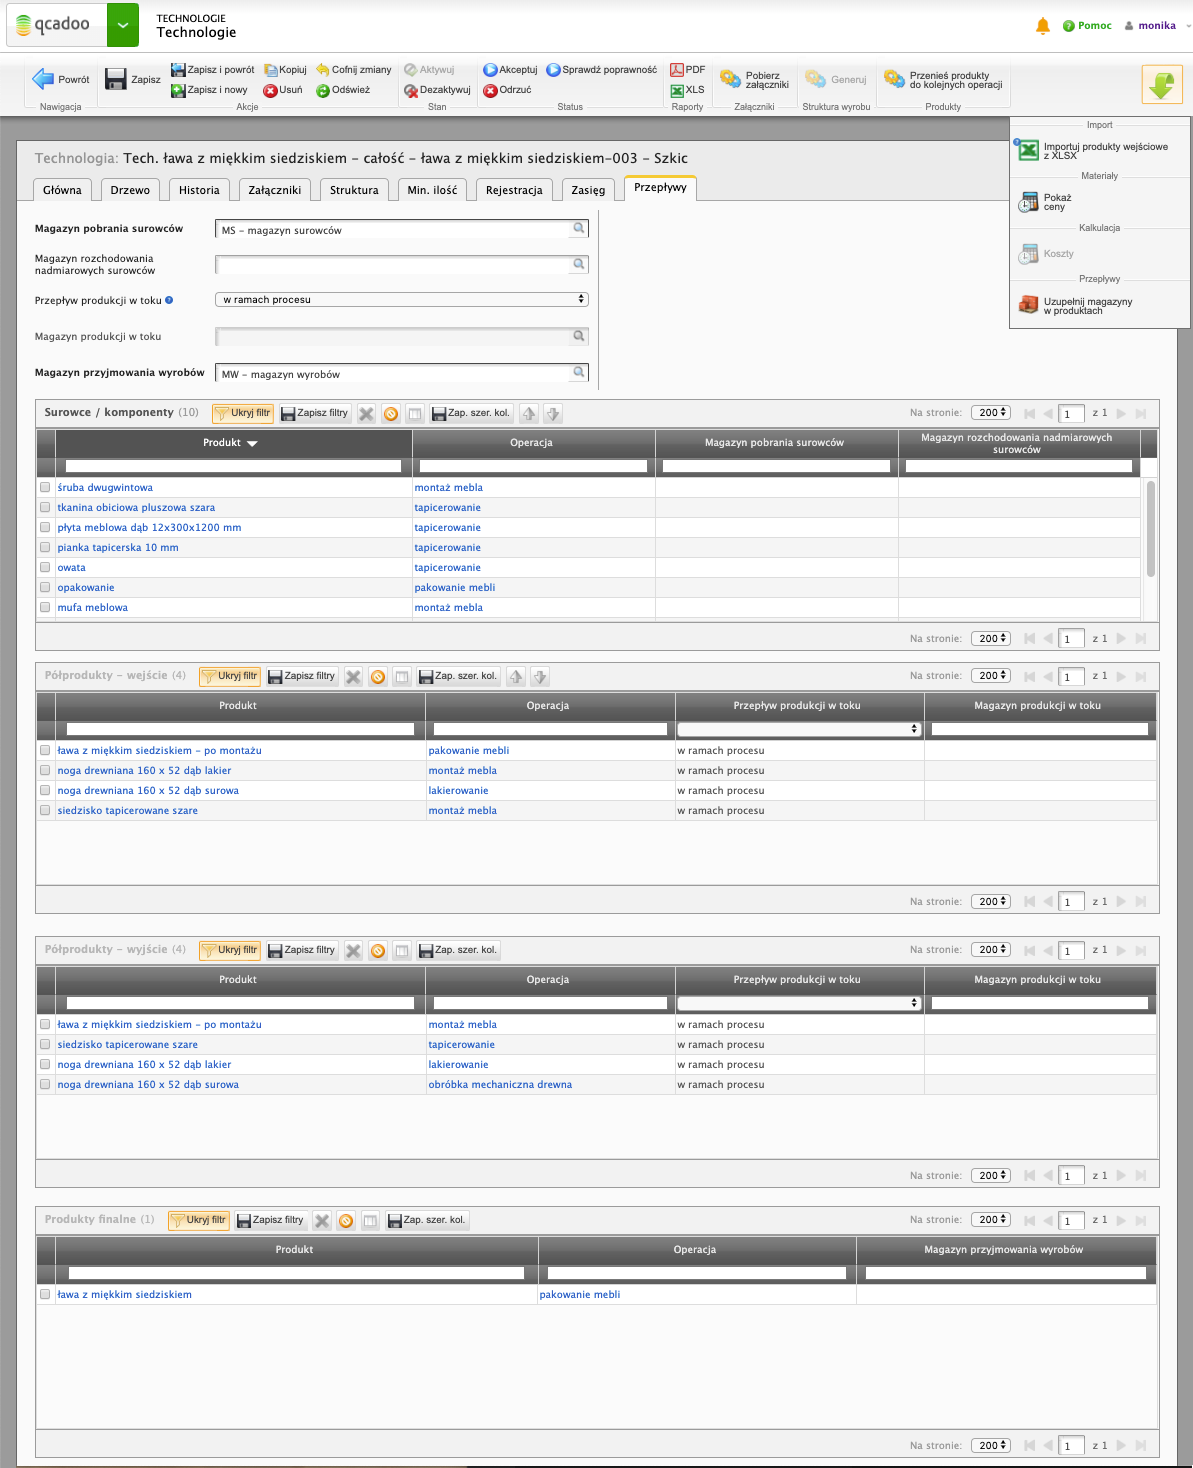
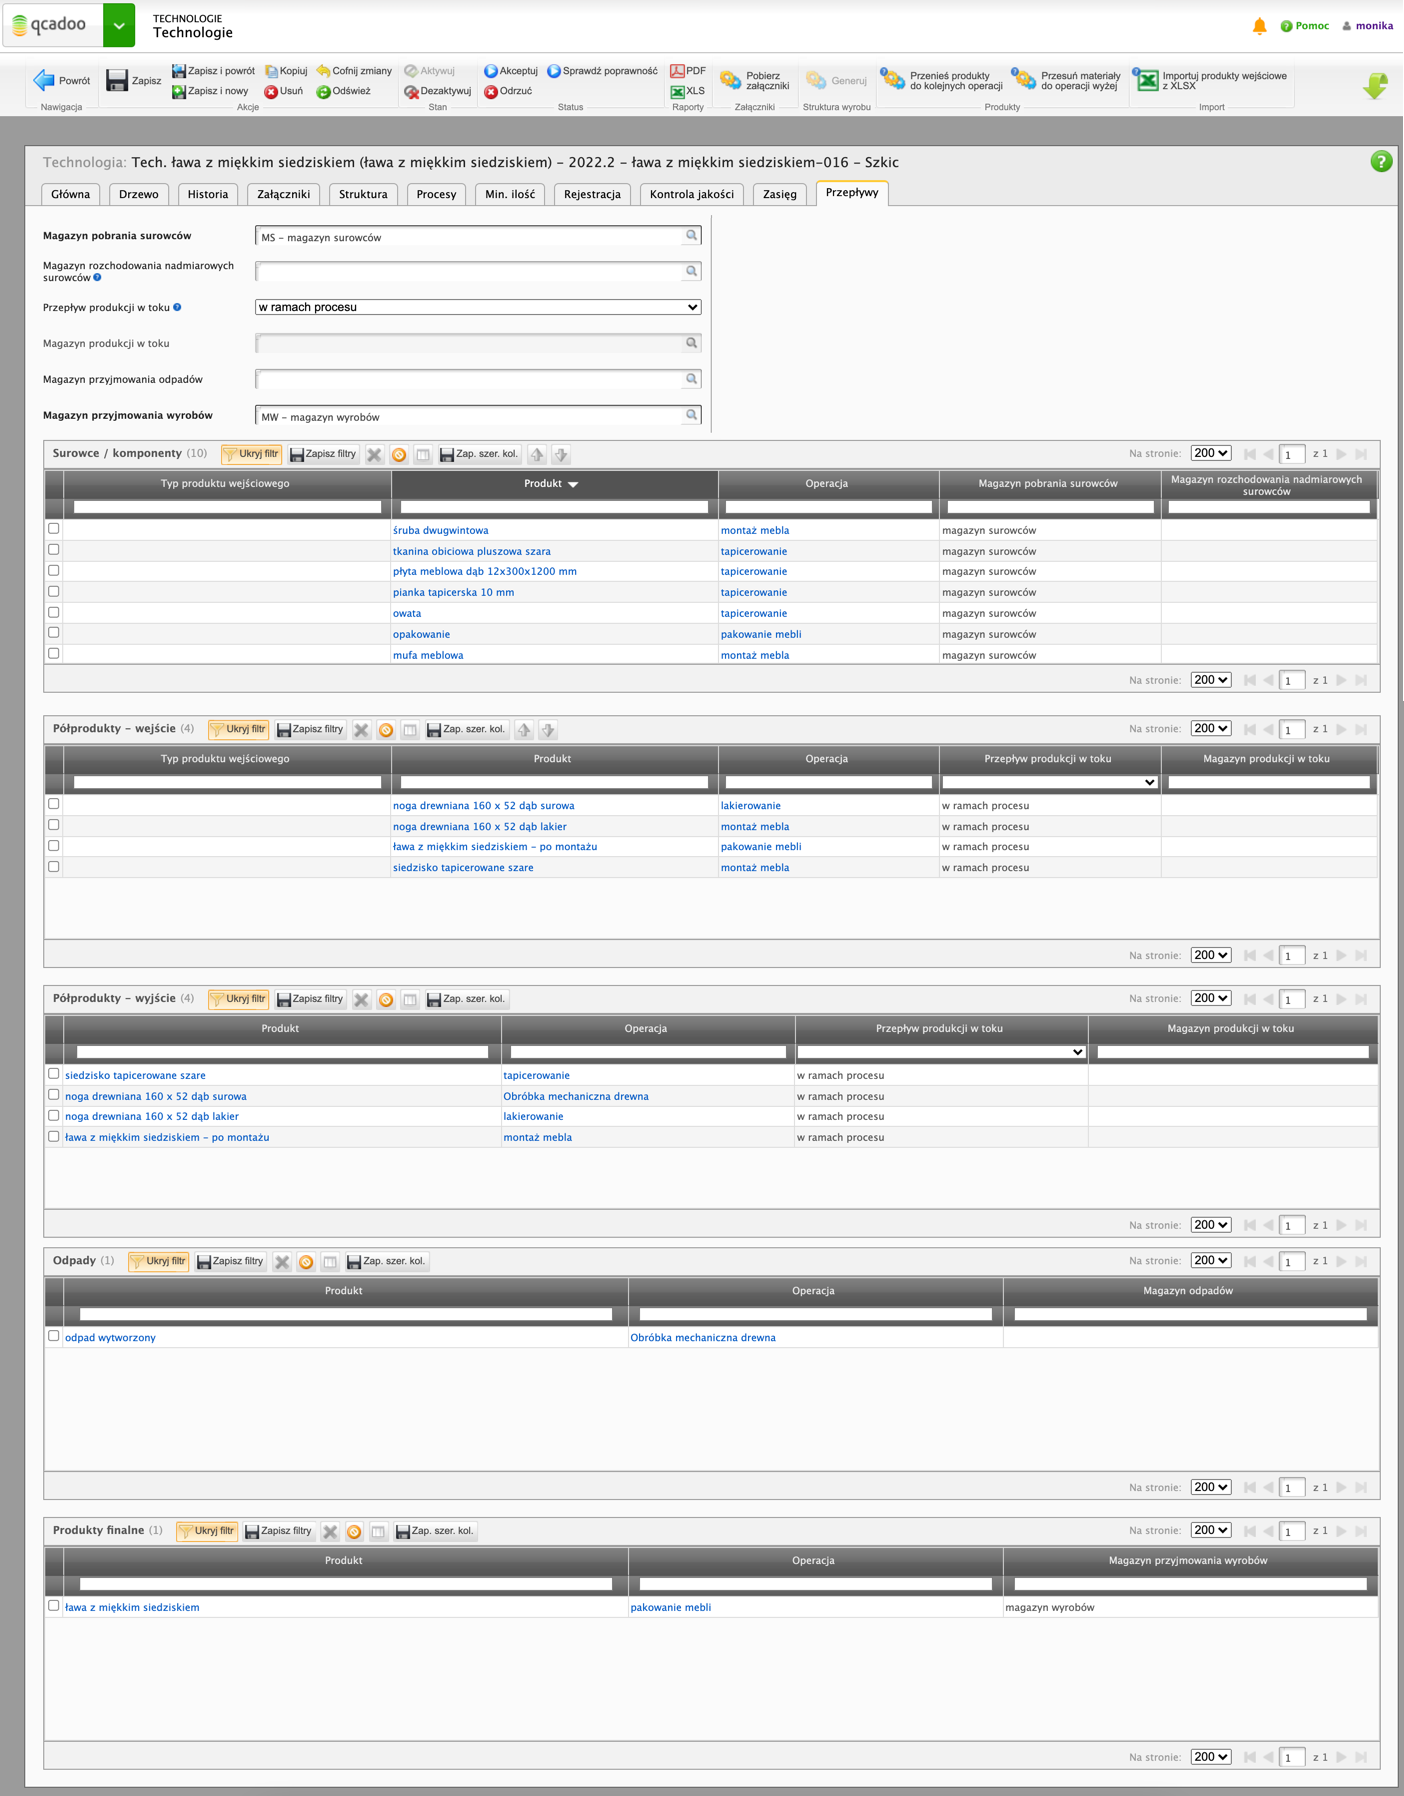
sprint 2.3.6

diff --git a/pages/technologie/technologie/technologie-szczegoly.md b/pages/technologie/technologie/technologie-szczegoly.md
@@ -72,7 +72,11 @@ Po zaznaczeniu operacji w drzewie uzupełnione zostają tabelki z produktami wej
 
 2. W celu dodania produktu wyjściowego wybieramy przycisk {% include inline_image.html file="newIcon16.png" alt="Nowy" %} "Nowy" w tabelce **"Produkty wyjściowe"**. 
 
-3. Przy pomocy {% include inline_image.html file="lupka.png" alt="Przycisk lupy" %} wybieramy "Produkt" dodawany do produktów wyjściowych. Podajemy następnie ilość, jaką produkuje operacja i wybieramy przycisk {% include inline_image.html file="saveIcon24.png" alt="Przycisk zapisu" %} **Zapisz,** by zachować. Możemy dodatkowo oznaczyć produkt
+3. Przy pomocy {% include inline_image.html file="lupka.png" alt="Przycisk lupy" %} wybieramy "Produkt" dodawany do produktów wyjściowych. Podajemy następnie ilość, jaką produkuje operacja i wybieramy przycisk {% include inline_image.html file="saveIcon24.png" alt="Przycisk zapisu" %} **Zapisz,** by zachować. Możemy dodatkowo oznaczyć produkt jako odpad, wtedy, gdy produkt będzie efektem tej operacji, ale nie będzie to produkt dla którego organizujemy tą produkcję (czyli będzie to produkt wytwarzany przy okazji, nadający się do dalszego przetworzenia lub nie nadający).
+
+{% include callout.html content="W danej operacji może być tylko jeden produkt wyjściowy, który nie jest odpadem i dowolnie wiele produktów, które są odpadem." type="info" %}
+
+{:start="4"}
 
 4. W ostatniej operacji w drzewie, produkującej ostateczny produkt technologii, zostanie dodany automatycznie produkt finalny całej technologii. 
 
@@ -230,6 +234,7 @@ Jakie magazyny musisz określić:
 Możesz też wskazać dodatkowe informacje:
 - **magazyn rozchodowania nadmiarowych surowców** - jeśli przesuwasz do produkcji surowce na magazyn działowy (korzystając z [wydań wewnętrznych](/wydania-wewnetrzne)) to możesz podać na jaki magazyn mają być zwrócone produkty przesunięte, a nie zużyte. Dokument MM (z magazynu pobrania surowców na magazyn wskazany tutaj) utworzy się w momencie zakończenia zlecenia,
 - **magazyn produkcji w toku** - jeśli chcesz aby produkty będące efektami operacji, były przyjmowane na magazyn, to ustaw przepływ produkcji w toku = magazyn i podaj na jaki magazyn półprodukty mają być przymowane. Z magazynu tego program rozchoduje również półprodukty wskazane jako zużyte w kolejnych operacjach. Opcja dostępna jest tylko dla rejestracji z dokładnością do operacji.
+- **magazyn przyjmowania odpadów** - jeśli chcesz, aby produkty wyjściowe oznaczone jako odpady były przyjmowane na stan, to podaj magazyn w tym polu.
 
 
 ## Zakończenie tworzenia technologii ##
@@ -255,6 +260,8 @@ O nieprawidłowościach poinformujemy Cię komunikatami. Mogą pojawić się nas
 - albo w trakcie tworzenia technologii została zmieniona wartość pola Reprezentuje w produkcie
 - albo technologia produktu rodziny została skopiowana przy okazji tworzenia technologii na konkretny produkt 
 - albo technologia produktu rodziny została wykorzystana do utworzenia nowych, na konkretne produkty, z poziomu generatora
+
+7. **W operacji X na poziomie Y w produktach wejściowych należy uzupełnić ilości.** --> technologia szkicowa może nie mieć podanej normy ilościowej materiałów. Ale aby móc przejść dalej, do technologii sprawdzonej i zaakceptowanej, ilości muszą zostać uzupełnione. Komunikat wskazuje miejsce w drzewie, w których należy uzupełnić dane.
 
 
 Jeśli mamy pewność wprowadzonych danych możemy od razu nadać jej status {% include inline_image.html file="startIcon24.png" alt="Akceptacja" %} **Zaakceptowana**. Tylko zaakceptowane technologie mogą zostać użyte w zleceniu produkcyjnym.

diff --git a/pages/planowanie/grupy-zlecen.md b/pages/planowanie/grupy-zlecen.md
@@ -95,6 +95,35 @@ Grupa zleceń zmienia status realizacji poprzez zmianę statusu zleceń, które 
 
 3. rozpoczynanie zleceń związanych z daną grupą - wejdź w szczegóły grupy i kliknij przycisk: {% include inline_image.html file="przyciskRozpocznijZlecenia.png" alt="Przycisk Rozpocznij zlecenia" %} **Rozpocznij zlecenia**
 
+---
+## Tworzenie nowej wersji technologii
+
+Funkcja będzie szczególnie przydatna, gdy:
+- korzystasz z technologii rodziny produktów i w grupie zleceń masz wiele zleceń realizowanych wg tej samej technologii
+- często, nawet już po uruchomieniu produkcji, zmienia się lista potrzebnych materiałów lub normy ich zużycia.
+
+Tworzenie nowej wersji technologii pozwala na szybką podmianę potrzebnych materiałów do produkcji. W efekcie utworzona w ten sposób technologia zostaje zaktualizowana w zaznaczonych zleceniach. Ważne jest, że możesz modyfikację przeprowadzić wielokrotnie. Ale nie zawsze. Kiedy zmiana technologii nie będzie możliwa?:
+- gdy do zlecenia istnieje rekord rejestracji produkcji,
+- gdy zlecenie ma status: zakończone, odrzucone lub zaniechane.
+
+Aby utworzyć nową wersję technologii w zleceniach grupy wejdź w grupę zleceń (**Planowanie > Grupy zleceń**) i przejdź do zakładki: zlecenia. Zaznacz zlecenia, w których chcesz zmienić listę potrzebnych produktów. Ważne, żeby wszystkie zaznaczone zlecenia korzystały z tej samej technologii. 
+
+{% include lightbox.html file="planowanieGrupyZlecenZleceniaZaznaczone.png" alt="Zaznaczone zlecenia do zmiany technologii" caption="Zaznaczone zlecenia do zmiany technologii" %}
+
+Kliknij przycisk {% include inline_image.html file="przyciskUtworzNowaWersjeTechnologii.png" alt="Przycisk Utwórz nową wersję technologii" %} **Utwórz nową wersję technologii**:
+
+{% include lightbox.html file="planowanieGrupaZlecenNowaWersjaTechnologii.png" alt="Nowa wersja technologii" caption="Nowa wersja technologii" %}
+
+W tabeli widoczne są wszystkie produkty wejściowe technologii. Możesz:
+- usunąć produkt,
+- dodać nowy - działając bardzo podobnie jak przy dopisywaniu produktu do technologii. Z tą różnicą, że musisz podać w jakiej operacji materiał będzie zużywany,
+- zmodyfikować normy ilościowe danego produktu.
+
+Po przeprowadzonych zmianach zatwierdź klikając przycisk {% include inline_image.html file="przyciskZapiszIPodmien.png" alt="Przycisk Zapisz i podmień" %} **Zapisz i podmień**.
+
+{% include callout.html content="Nowa wersja technologii tworzy się już w momencie kliknięcia przycisku _Utwórz nową wersję technologii_. Przycisk _Zapisz i podmień_ akceptuje ją i wprowadza do zlecenia produkcyjnego." type="info" %}
+
+
 --- 
 
 ## Wydawanie materiałów do grupy zleceń

diff --git a/pages/dane-podstawowe/firmy.md b/pages/dane-podstawowe/firmy.md
@@ -19,3 +19,27 @@ W celu dodania firmy należy przejść do **Podstawowe >> Firmy**  i kliknąć *
 
 {% include callout.html content="Jeżeli nasz system jest zintegrowany z zewnętrznym systemem ERP, to istnieje możliwość pobrania listy klientów bezpośrednio do Qcadoo MES." type="info" %} 
 
+## Jak zaimportować firmy z arkusza Excel?
+
+qcadoo MES pozwala na zaciągnięciu wielu danych z arkusza Excel. Sposób działania w każdym z miejsc jest dokładnie taki sam - opis znajdziesz w [tej dokumentacji](/import-z-excel). Poszczególne funkcjonalności różnią się tylko szablonem, który trzeba wypełnić.
+
+Aby zaimportować firmy (i pobrać szablon do wypełnienia) wejdź w **Podstawowe > Firmy** i kliknij przycisk {% include inline_image.html file="przyciskImportujFirmyZXLSX.png" alt="Przycisk Importuj firmy z XLSX" %} **Importuj firmy z XLSX**.
+
+Arkusz do importu zawiera następujące kolumny:
+
+- **numer** (kolumna A) - dana wymagana. Może istnieć tylko jeden kontrahent o danym numerze
+- **nazwa** (kolumna B) - dana wymagana,
+- **NIP** (kolumna C) - dana opcjonalna. Wprowadź NIP w prawidłowym formacie
+- **kod kraju** (kolumna D) - dana opcjonalna. Posłuż się obowiązującymi kodami kraju, np.: PL (Polska), DE (Niemcy), CZ (Czechy) itp. Jeśli masz wątpliwości, wejdź do okna dodawania firmy w qcadoo i wywołaj listę lupką przy polu Kraj,
+- **ulica** (kolumna E) - dana opcjonalna,
+- **nr domu** (kolumna F) - dana opcjonalna,
+- **nr mieszkania** (kolumna G) - dana opcjonalna,
+- **kod pocztowy** (kolumna H) - dana opcjonalna,
+- **miasto** (kolumna I) - dana opcjonalna,
+- **województwo** (kolumna J) - dana opcjonalna,
+- **telefon** (kolumna K) - dana opcjonalna,
+- **email** (kolumna L) - dana opcjonalna,
+- **adres www** (kolumna M) - dana opcjonalna,
+- **osoba kontaktowa** (kolumna N) - dana opcjonalna.
+
+

diff --git a/pages/rejestracja-produkcji/terminal.md b/pages/rejestracja-produkcji/terminal.md
@@ -232,6 +232,20 @@ Jeśli chcesz, aby podanie przyczyny było konieczne zaznacz parametr: Wymagaj p
 
 Przyczyny braków przeanalizujesz w [analizie wykonanej produkcji](/analiza-wykonanej-produkcji).
 
+---
+
+{% include lightbox.html file="terminalProduktyWyjscioweMiejscaSkladowania.png" alt="Miejsce składowania" caption="Miejsce składowania" class="float-right"  %}
+
+#### Miejsce składowania
+
+Dla produktu wyjściowego możesz wskazać miejsce składowania oraz paletę, na których produkt będzie ulokowany. Aby to zrobić rozwiń w wierszu produktu menu kontekstowe i kliknij przycisk **Miejsce składowania**.
+
+Wybierz z listy:
+- miejsce składowania - lista będzie ograniczona do miejsc zdefiniowanych na magazynie przyjmującym z [przepływów technologii](/technologie-szczegoly.html#przepływy-technologii). 
+- palety - z listy numerów wcześniej wygenerowanych jako [numery własne palet](/numery-wlasne-palet).
+
+Dane po potwierdzeniu meldunku zostaną przekazane do rekordu rejestracji produkcji. A z niego (czy to na akceptacji, czy na zakończeniu zlecenia) do dokumentu PW i zasobów magazynowych.
+
 
 ---
 ### Partia produktu zleconego

diff --git a/pages/parametry/parametry-ogolne/parametry-glowna.md b/pages/parametry/parametry-ogolne/parametry-glowna.md
@@ -51,6 +51,8 @@ W zakładce znajdują się parametry konfigurujące [produkty](/produkty).
 
 2. **Kopiuj koszt nominalny z rodziny na produkty rozmiarowe** - zaznacz parametr jeśli chcesz, aby podczas generowania produktów rozmiarowych, został skopiowany do nich koszt nominalny z produktu-rodziny.
 
+3. **Uzupełnianie kosztów produktów** - grupa parametrów pozwala na skonfigurowanie automatycznie wywoływanej w nocy (o godzinie 3:00) funkcji aktualizacji kosztów produktów. Aby uruchomić funkcję zaznacz parametr: **Automatycznie wywołuj funkcję uzupełniania kosztów**. Jeśli pracujesz w trybie z integracją z ERP, wybierz co ma być źródłem informacji o kosztach - qcadoo MES czy system zewnętrzny. Przy opcji prowadzenia magazynów w qcadoo, możesz wskazać z jakich magazynów mają być pobierane dokumenty do ustalenia kosztów.
+
 ---
 
 ## Powiadomienia

diff --git a/pages/produkty/produkty.md b/pages/produkty/produkty.md
@@ -210,6 +210,8 @@ Jeśli masz włączoną integrację to podaj, czy chcesz aktualizować koszty na
 
 {% include callout.html content="Jeśli masz bardzo dużo produktów i bardzo dużo dokumentów, to czas trwania może być dłuższy niż innych znanych Ci funkcjonalności." type="warning" %}
 
+{% include callout.html content="Funkcja uzupełniania kosztów może być wywoływana automatycznie w nocy - dzięki temu zawsze rano koszty produktu będą aktualne. Aby tak się stało, wejdź w [parametry produktów](/parametry-glowna.html#produkty), zaznacz **Automatycznie wywołuj funkcję uzupełniania kosztów** i określ **Źródło kosztów**." type="warning" %}
+
 ## Utwórz wiele zleceń produkcyjnych
 
 Tworzenie zleceń produkcyjnych z poziomu listy produktów zostało opisane szerzej [tutaj](/zlecenia-produkcyjne.html#dodanie-zlecenia-z-poziomu-produktu).
